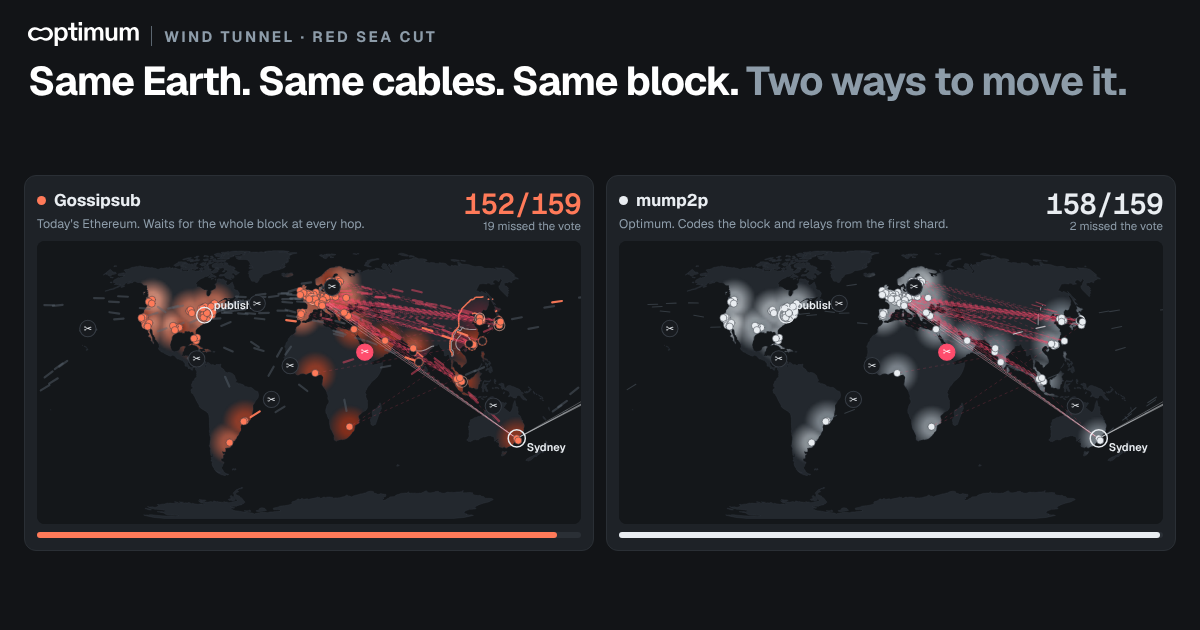
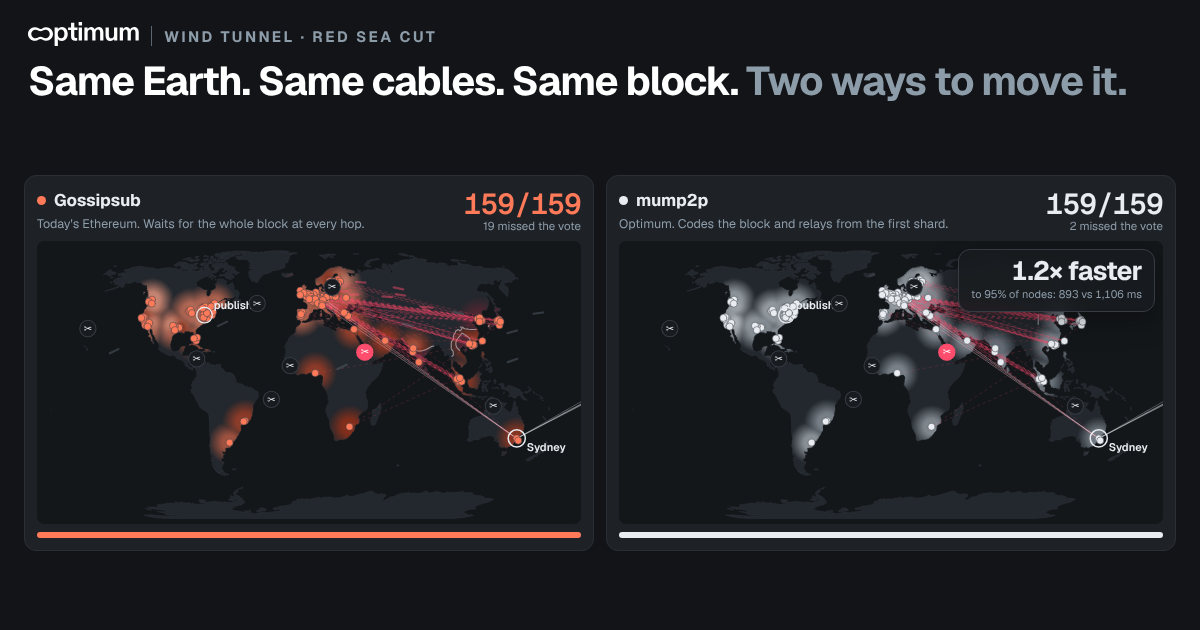
Show the speed-up (time to 95% of nodes) on the mump2p map when the run completes

diff --git a/index.html b/index.html
@@ -198,6 +198,12 @@ details.lab .note{letter-spacing:0;text-transform:none;font-weight:400}
 .legend{display:flex;align-items:center;gap:8px;font-size:11px;color:var(--mute);flex-wrap:wrap}
 .ramp{display:inline-block}
 .col .recorder{grid-template-columns:minmax(0,1fr)}
+.speed{position:absolute;top:8px;right:8px;z-index:2;display:flex;flex-direction:column;align-items:flex-end;gap:3px;padding:8px 12px;border-radius:12px;background:color-mix(in srgb,var(--panel) 88%,transparent);border:1px solid var(--line2);backdrop-filter:blur(6px);box-shadow:0 8px 28px rgba(0,0,0,.35);animation:pop .45s cubic-bezier(.2,1.4,.4,1)}
+.speed b{font-family:var(--sans);font-size:clamp(20px,2.2vw,30px);font-weight:700;letter-spacing:-.03em;line-height:1;color:var(--m)}
+.speed b.slow{color:var(--g)}
+.speed span{font-size:11px;color:var(--mute);text-align:right;white-space:nowrap;font-variant-numeric:tabular-nums}
+@keyframes pop{from{transform:scale(.6);opacity:0}to{transform:none;opacity:1}}
+@media (prefers-reduced-motion:reduce){.speed{animation:none}}
 .legendrow{display:flex;gap:14px;align-items:center;flex-wrap:wrap}
 .legendrow .howto{flex:1 1 320px}
 </style>
@@ -251,7 +257,7 @@ details.lab .note{letter-spacing:0;text-transform:none;font-weight:400}
       <section class="pane" id="paneM">
         <div class="phead"><div><h3><span class="dot" style="background:var(--m)"></span><span lang="en" id="mTitle">mump2p</span></h3><p class="psub" id="msub" data-i="msub">Optimum. Codes the block and relays from the first shard.</p></div>
           <div class="pcount"><b class="mono" id="cntM">0</b><span id="cntMl"></span></div></div>
-        <div class="mapbox"><canvas id="mapM"></canvas><div class="hint" data-i="hint">Click any dot to probe that node · click ✂ to cut a cable corridor</div></div>
+        <div class="mapbox"><canvas id="mapM"></canvas><div class="speed" id="speedBadge" hidden><b class="mono" id="spX"></b><span id="spL"></span></div><div class="hint" data-i="hint">Click any dot to probe that node · click ✂ to cut a cable corridor</div></div>
         <div class="pbar"><i id="barM"></i></div>
       </section>
     </div>
@@ -677,7 +683,7 @@ function rerun(){
   const P={B:SIZES[S.Bi],loss:S.loss/100,k:S.k,r:0,m:1.5,beta:S.beta,pub:PUB,cut:S.cut,dark:S.dark,seed:3,hb:700};
   const t0=performance.now();
   const m=post(simulate('m',net,P),'m'), g=post(simulate('g',net,P),'g');
-  R={m,g,ms:performance.now()-t0};
+  R={m,g,ms:performance.now()-t0,id:(R?R.id+1:1)};
   const mx=Math.max(m.fin.at(-1)||0, g.fin.at(-1)||0);
   R.tMax=Math.max(budget()+150, Math.ceil((mx+60)/50)*50);
   S.t=0; S.playing=true; playIco(); resetDec(); buildChips(); writeVerdict(); dirtyAll(); drawBarcode(); inspector(true);
@@ -816,7 +822,18 @@ const HOWTO={
 function legend(){ const el=$('legend'); if(!COL.m) return; const v=S.mode||'t'; $('howto').textContent=L(...HOWTO[v]);
   if(v==='d') el.innerHTML=`<span>${L('mump2p first','önce mump2p')}</span><span class="ramp" style="background:linear-gradient(90deg,${COL.m},${COL.land},${COL.g})"></span><span>${L('Gossipsub first','önce Gossipsub')}</span>`;
   else el.innerHTML=`<span>${L('early','erken')}</span><span class="ramp" style="width:60px;background:linear-gradient(90deg,${COL.g2},${COL.gdeep})"></span><span class="ramp" style="width:60px;background:linear-gradient(90deg,${COL.m2},${COL.mdeep})"></span><span>${L('deadline','sınır')} ┄</span><span class="ramp" style="width:18px;background:${COL.late}"></span><span>${L('late','geç')}</span>`; }
-function counters(){ if(!R) return; const t=S.t, bud=budget(), n=R.m.aliveN-1;
+function speedBadge(){ const el=$('speedBadge'); if(!R){el.hidden=true;return}
+  const pg=q(R.g.fin,.95), pm=q(R.m.fin,.95); const show=S.t>=Math.max(pg,pm)&&isFinite(pg)&&isFinite(pm);
+  if(!show){ el.hidden=true; return; }
+  if(el.hidden||el.dataset.k!==R.id+lang){ el.dataset.k=R.id+lang; const r=pg/pm, x=$('spX');
+    const fmt=v=>v.toFixed(v>=10?0:1).replace('.',lang==='tr'?',':'.');
+    if(r>=1.05){ x.className='mono'; x.textContent=L(`${fmt(r)}× faster`,`${fmt(r)}× daha hızlı`); }
+    else if(r<=0.95){ x.className='mono slow'; x.textContent=L(`${fmt(1/r)}× slower`,`${fmt(1/r)}× daha yavaş`); }
+    else { x.className='mono'; x.textContent=L('About even','Neredeyse eşit'); }
+    $('spL').textContent=L(`to 95% of nodes: ${nf(pm)} vs ${nf(pg)} ms`,`düğümlerin %95'ine: ${nf(pm)} / ${nf(pg)} ms`); $('speedBadge').title=L(`Time for mump2p to reach 95% of nodes (${nf(pm)} ms) compared with Gossipsub (${nf(pg)} ms)`,`mump2p'nin düğümlerin %95'ine ulaşma süresi (${nf(pm)} ms), Gossipsub ile karşılaştırma (${nf(pg)} ms)`);
+    el.hidden=false; }
+}
+function counters(){ if(!R) return; speedBadge(); const t=S.t, bud=budget(), n=R.m.aliveN-1;
   if(S.mode==='d'){ let first=0,seen=0; for(let i=0;i<N;i++){ if(i===PUB||!R.m.alive[i]) continue; const a=R.m.T[i],b=R.g.T[i]; if(Math.min(a,b)<=t){seen++; if(a<b) first++;} }
     $('cntM').textContent=`${first}/${seen}`; $('cntMl').textContent=L('got it first via mump2p','bloğu önce mump2p ile aldı'); $('barM').style.width=(seen?100*first/seen:0)+'%'; return; }
   for(const [res,c,l,bar,dl] of [[R.g,'cntG','cntGl','barG','dlG'],[R.m,'cntM','cntMl','barM','dlM']]){
@@ -1032,7 +1049,8 @@ function refreshTourText(){ if($('tour').hidden) return; const st=TOUR[step]; $(
 $('shareBtn').onclick=()=>{ if(!R) return; const n=R.m.aliveN-1, bud=budget();
   const lg=n-countLE(R.g.fin,bud), lm=n-countLE(R.m.fin,bud); const sc=SCEN.find(x=>{const m=x.set;return S.Bi===m.Bi&&S.loss===m.loss&&S.cut.size===m.cut.length&&m.cut.every(c=>S.cut.has(c))&&S.dark.size===m.dark.length});
   const name=sc?sc.en:'Custom run'; const url='https://optimum-wind-tunnel.netlify.app/'+(sc?'#'+sc.id:'');
-  const txt=`${name} in the Optimum Wind Tunnel: ${lg} of ${n} nodes miss the vote deadline on Gossipsub, ${lm} on @get_optimum mump2p.\n\nSame Earth. Same cables. Same block.`;
+  const r=q(R.g.fin,.95)/q(R.m.fin,.95); const sp=r>=1.05?` mump2p reached 95% of the network ${r.toFixed(1)}x faster.`:'';
+  const txt=`${name} in the Optimum Wind Tunnel: ${lg} of ${n} nodes miss the vote deadline on Gossipsub, ${lm} on @get_optimum mump2p.${sp}\n\nSame Earth. Same cables. Same block.`;
   const a=document.createElement('a'); a.href='https://x.com/intent/post?text='+encodeURIComponent(txt)+'&url='+encodeURIComponent(url); a.target='_blank'; a.rel='noopener'; document.body.appendChild(a); a.click(); a.remove(); };
 
 // ---------- loop ----------

diff --git a/src/app.js b/src/app.js
@@ -152,7 +152,7 @@ function rerun(){
   const P={B:SIZES[S.Bi],loss:S.loss/100,k:S.k,r:0,m:1.5,beta:S.beta,pub:PUB,cut:S.cut,dark:S.dark,seed:3,hb:700};
   const t0=performance.now();
   const m=post(simulate('m',net,P),'m'), g=post(simulate('g',net,P),'g');
-  R={m,g,ms:performance.now()-t0};
+  R={m,g,ms:performance.now()-t0,id:(R?R.id+1:1)};
   const mx=Math.max(m.fin.at(-1)||0, g.fin.at(-1)||0);
   R.tMax=Math.max(budget()+150, Math.ceil((mx+60)/50)*50);
   S.t=0; S.playing=true; playIco(); resetDec(); buildChips(); writeVerdict(); dirtyAll(); drawBarcode(); inspector(true);
@@ -291,7 +291,18 @@ const HOWTO={
 function legend(){ const el=$('legend'); if(!COL.m) return; const v=S.mode||'t'; $('howto').textContent=L(...HOWTO[v]);
   if(v==='d') el.innerHTML=`<span>${L('mump2p first','önce mump2p')}</span><span class="ramp" style="background:linear-gradient(90deg,${COL.m},${COL.land},${COL.g})"></span><span>${L('Gossipsub first','önce Gossipsub')}</span>`;
   else el.innerHTML=`<span>${L('early','erken')}</span><span class="ramp" style="width:60px;background:linear-gradient(90deg,${COL.g2},${COL.gdeep})"></span><span class="ramp" style="width:60px;background:linear-gradient(90deg,${COL.m2},${COL.mdeep})"></span><span>${L('deadline','sınır')} ┄</span><span class="ramp" style="width:18px;background:${COL.late}"></span><span>${L('late','geç')}</span>`; }
-function counters(){ if(!R) return; const t=S.t, bud=budget(), n=R.m.aliveN-1;
+function speedBadge(){ const el=$('speedBadge'); if(!R){el.hidden=true;return}
+  const pg=q(R.g.fin,.95), pm=q(R.m.fin,.95); const show=S.t>=Math.max(pg,pm)&&isFinite(pg)&&isFinite(pm);
+  if(!show){ el.hidden=true; return; }
+  if(el.hidden||el.dataset.k!==R.id+lang){ el.dataset.k=R.id+lang; const r=pg/pm, x=$('spX');
+    const fmt=v=>v.toFixed(v>=10?0:1).replace('.',lang==='tr'?',':'.');
+    if(r>=1.05){ x.className='mono'; x.textContent=L(`${fmt(r)}× faster`,`${fmt(r)}× daha hızlı`); }
+    else if(r<=0.95){ x.className='mono slow'; x.textContent=L(`${fmt(1/r)}× slower`,`${fmt(1/r)}× daha yavaş`); }
+    else { x.className='mono'; x.textContent=L('About even','Neredeyse eşit'); }
+    $('spL').textContent=L(`to 95% of nodes: ${nf(pm)} vs ${nf(pg)} ms`,`düğümlerin %95'ine: ${nf(pm)} / ${nf(pg)} ms`); $('speedBadge').title=L(`Time for mump2p to reach 95% of nodes (${nf(pm)} ms) compared with Gossipsub (${nf(pg)} ms)`,`mump2p'nin düğümlerin %95'ine ulaşma süresi (${nf(pm)} ms), Gossipsub ile karşılaştırma (${nf(pg)} ms)`);
+    el.hidden=false; }
+}
+function counters(){ if(!R) return; speedBadge(); const t=S.t, bud=budget(), n=R.m.aliveN-1;
   if(S.mode==='d'){ let first=0,seen=0; for(let i=0;i<N;i++){ if(i===PUB||!R.m.alive[i]) continue; const a=R.m.T[i],b=R.g.T[i]; if(Math.min(a,b)<=t){seen++; if(a<b) first++;} }
     $('cntM').textContent=`${first}/${seen}`; $('cntMl').textContent=L('got it first via mump2p','bloğu önce mump2p ile aldı'); $('barM').style.width=(seen?100*first/seen:0)+'%'; return; }
   for(const [res,c,l,bar,dl] of [[R.g,'cntG','cntGl','barG','dlG'],[R.m,'cntM','cntMl','barM','dlM']]){
@@ -507,7 +518,8 @@ function refreshTourText(){ if($('tour').hidden) return; const st=TOUR[step]; $(
 $('shareBtn').onclick=()=>{ if(!R) return; const n=R.m.aliveN-1, bud=budget();
   const lg=n-countLE(R.g.fin,bud), lm=n-countLE(R.m.fin,bud); const sc=SCEN.find(x=>{const m=x.set;return S.Bi===m.Bi&&S.loss===m.loss&&S.cut.size===m.cut.length&&m.cut.every(c=>S.cut.has(c))&&S.dark.size===m.dark.length});
   const name=sc?sc.en:'Custom run'; const url='https://optimum-wind-tunnel.netlify.app/'+(sc?'#'+sc.id:'');
-  const txt=`${name} in the Optimum Wind Tunnel: ${lg} of ${n} nodes miss the vote deadline on Gossipsub, ${lm} on @get_optimum mump2p.\n\nSame Earth. Same cables. Same block.`;
+  const r=q(R.g.fin,.95)/q(R.m.fin,.95); const sp=r>=1.05?` mump2p reached 95% of the network ${r.toFixed(1)}x faster.`:'';
+  const txt=`${name} in the Optimum Wind Tunnel: ${lg} of ${n} nodes miss the vote deadline on Gossipsub, ${lm} on @get_optimum mump2p.${sp}\n\nSame Earth. Same cables. Same block.`;
   const a=document.createElement('a'); a.href='https://x.com/intent/post?text='+encodeURIComponent(txt)+'&url='+encodeURIComponent(url); a.target='_blank'; a.rel='noopener'; document.body.appendChild(a); a.click(); a.remove(); };
 
 // ---------- loop ----------

diff --git a/src/src.html b/src/src.html
@@ -185,6 +185,12 @@ details.lab .note{letter-spacing:0;text-transform:none;font-weight:400}
 .legend{display:flex;align-items:center;gap:8px;font-size:11px;color:var(--mute);flex-wrap:wrap}
 .ramp{display:inline-block}
 .col .recorder{grid-template-columns:minmax(0,1fr)}
+.speed{position:absolute;top:8px;right:8px;z-index:2;display:flex;flex-direction:column;align-items:flex-end;gap:3px;padding:8px 12px;border-radius:12px;background:color-mix(in srgb,var(--panel) 88%,transparent);border:1px solid var(--line2);backdrop-filter:blur(6px);box-shadow:0 8px 28px rgba(0,0,0,.35);animation:pop .45s cubic-bezier(.2,1.4,.4,1)}
+.speed b{font-family:var(--sans);font-size:clamp(20px,2.2vw,30px);font-weight:700;letter-spacing:-.03em;line-height:1;color:var(--m)}
+.speed b.slow{color:var(--g)}
+.speed span{font-size:11px;color:var(--mute);text-align:right;white-space:nowrap;font-variant-numeric:tabular-nums}
+@keyframes pop{from{transform:scale(.6);opacity:0}to{transform:none;opacity:1}}
+@media (prefers-reduced-motion:reduce){.speed{animation:none}}
 .legendrow{display:flex;gap:14px;align-items:center;flex-wrap:wrap}
 .legendrow .howto{flex:1 1 320px}
 </style>
@@ -238,7 +244,7 @@ details.lab .note{letter-spacing:0;text-transform:none;font-weight:400}
       <section class="pane" id="paneM">
         <div class="phead"><div><h3><span class="dot" style="background:var(--m)"></span><span lang="en" id="mTitle">mump2p</span></h3><p class="psub" id="msub" data-i="msub">Optimum. Codes the block and relays from the first shard.</p></div>
           <div class="pcount"><b class="mono" id="cntM">0</b><span id="cntMl"></span></div></div>
-        <div class="mapbox"><canvas id="mapM"></canvas><div class="hint" data-i="hint">Click any dot to probe that node · click ✂ to cut a cable corridor</div></div>
+        <div class="mapbox"><canvas id="mapM"></canvas><div class="speed" id="speedBadge" hidden><b class="mono" id="spX"></b><span id="spL"></span></div><div class="hint" data-i="hint">Click any dot to probe that node · click ✂ to cut a cable corridor</div></div>
         <div class="pbar"><i id="barM"></i></div>
       </section>
     </div>
